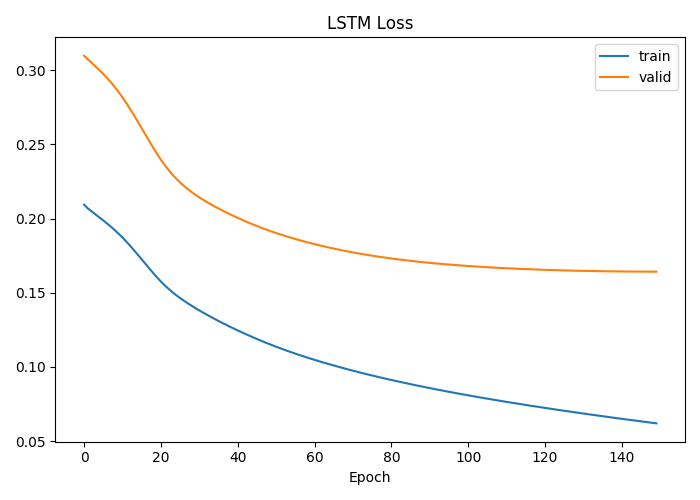
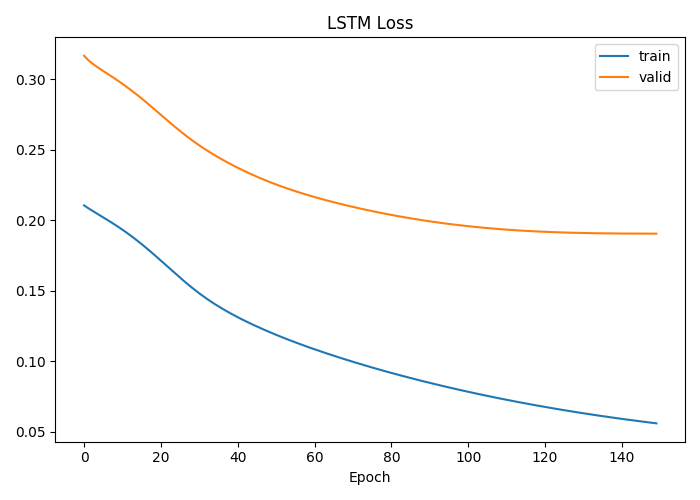
fix errors

diff --git a/Python_code/Pytorch/ITPC/ITPC_LSTM.py b/Python_code/Pytorch/ITPC/ITPC_LSTM.py
@@ -330,21 +330,22 @@ print('new_training_x= ', new_training_x.size())
 
 new_testing_x=torch.cat((testing_x, testing_itpc), 1)
 
-'''
-for _ in range(training_x.size(0)):
+
+for k in range(new_training_x.size(0)):
+
     for i in range(96):
         # pass
-        training_x[:,i]=training_x[:,i]*training_x[:,-1]*training_x[:,-2]
+        new_training_x[k,i]=new_training_x[k,i]*new_training_x[k,-1]*new_training_x[k,-2]
 
-for _ in range(testing_x.size(0)):
+for k in range(new_testing_x.size(0)):
     for i in range(96):
         # pass
-        testing_x[:,i]=testing_x[:,i]*testing_x[:,-1]*testing_x[:,-2]
+        new_testing_x[k,i]=new_testing_x[k,i]*new_testing_x[k,-1]*new_testing_x[k,-2]
 
 
-training_x=training_x[:,:96]
-testing_x=testing_x[:,:96]
-'''
+new_training_x=new_training_x[:,:96]
+new_testing_x=new_testing_x[:,:96]
+
 
 # Neural Network
 batch_size = 16
